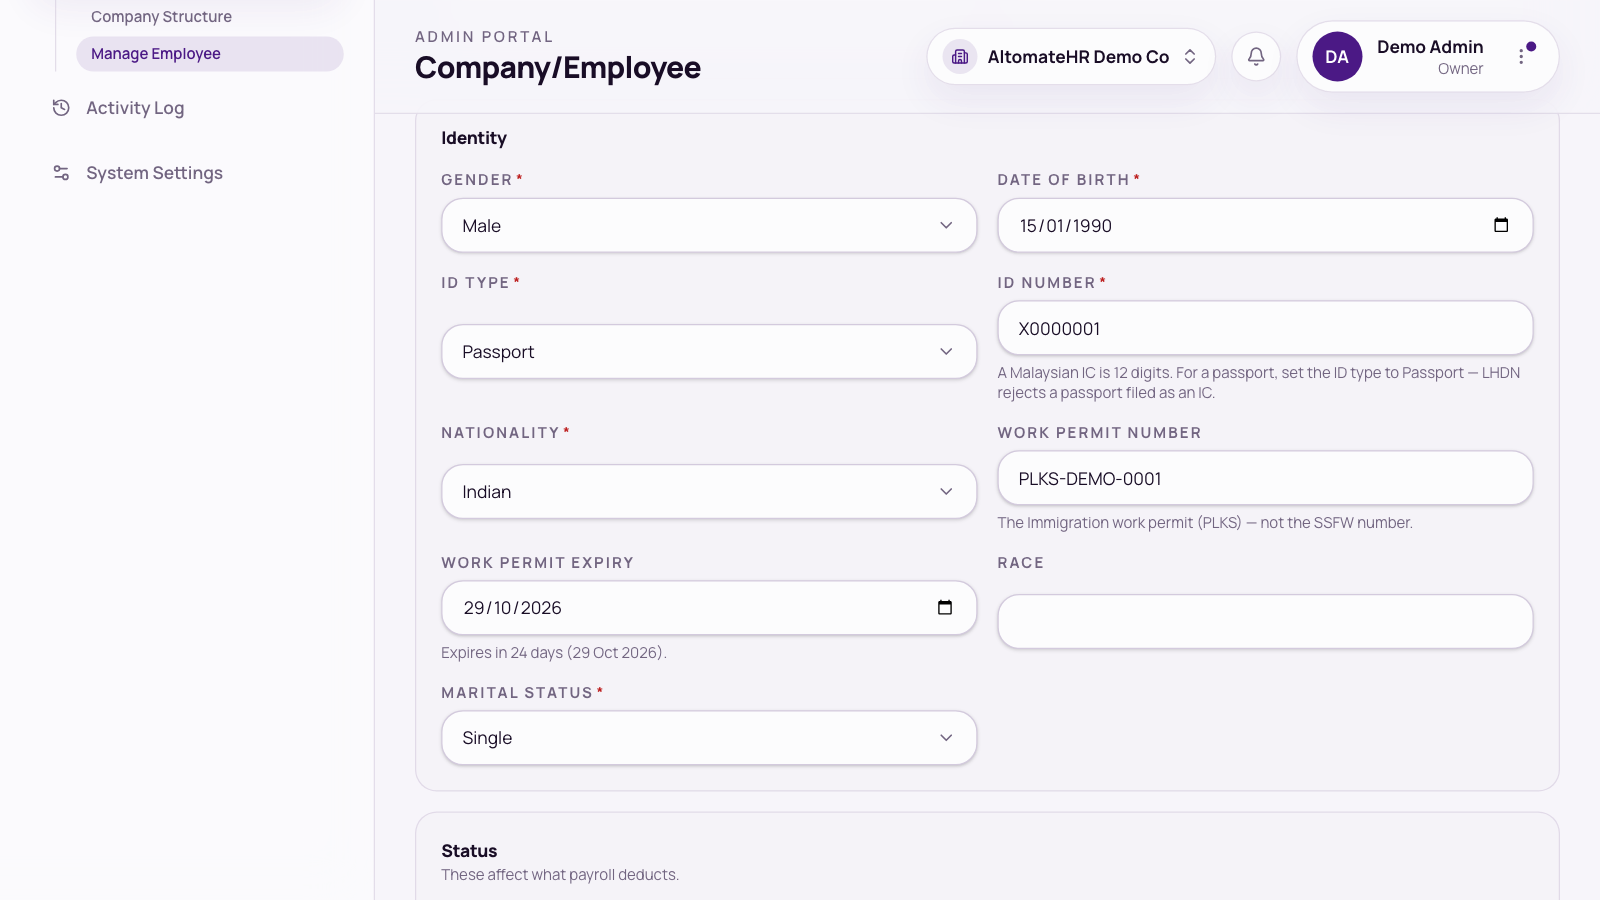
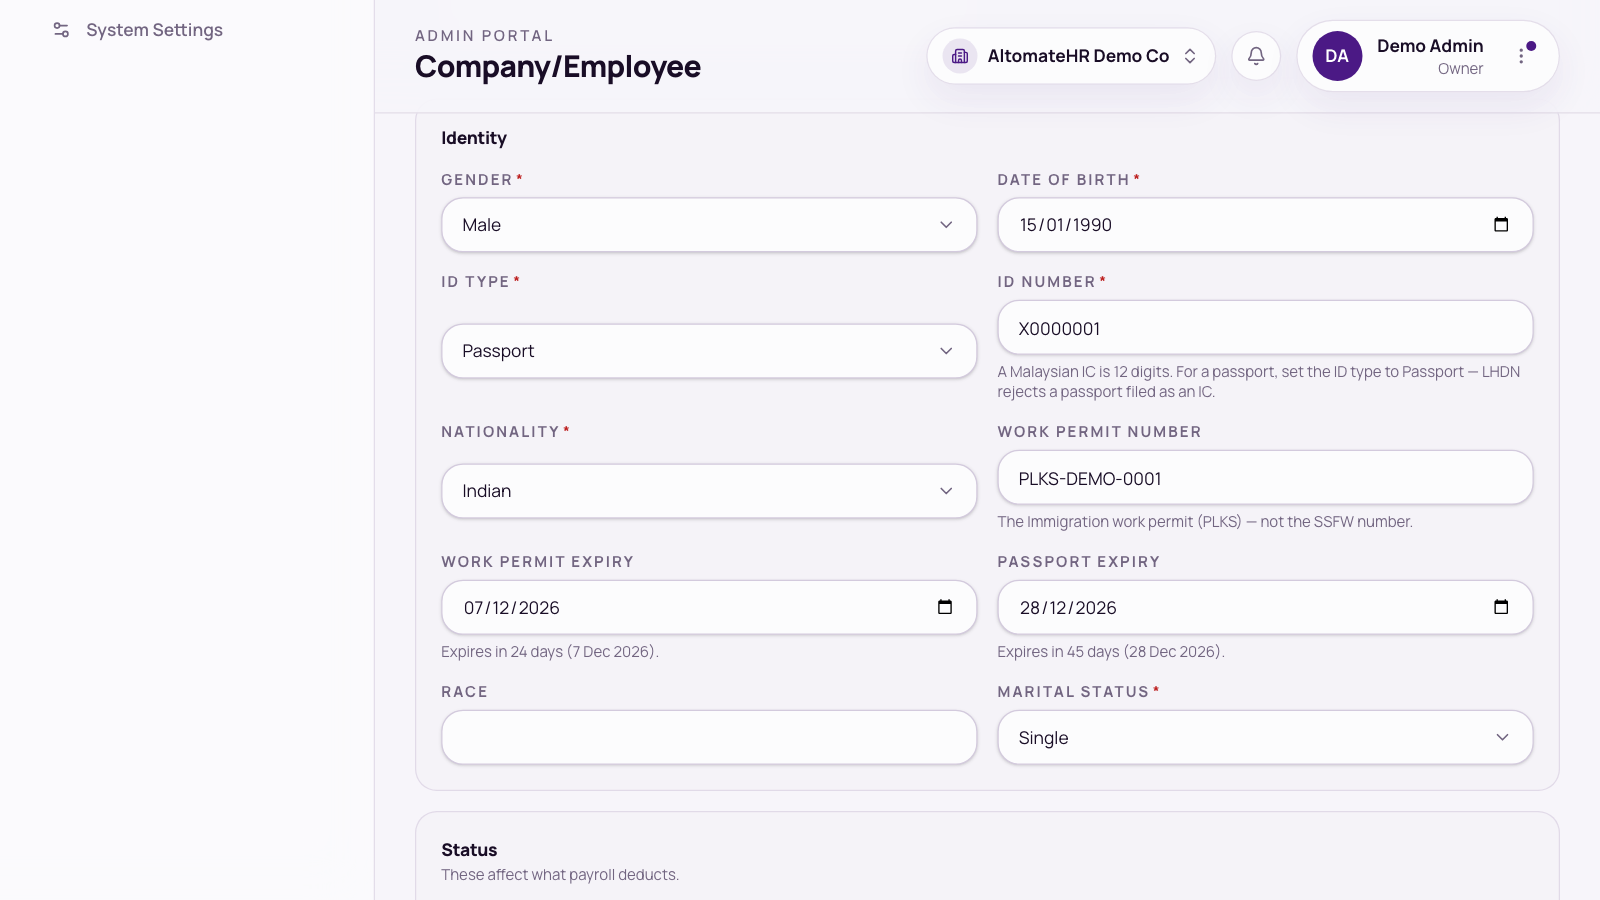
docs(guide): retake screenshots for expiry reminders
- New: System Settings → Notifications
- Executive Overview now shows the Documents expiring card
- Employee Identity shows the Passport expiry field
- Recipes: settings-notifications added; employee-work-permit searches for
  Arjun in the demo company; demo data gets passport expiry dates

diff --git a/user-guide/altomatehr-admin-guide.html b/user-guide/altomatehr-admin-guide.html
@@ -736,6 +736,15 @@
       </div>
       <p class="shot-cap shot-cap-main">What a limited admin sees in System Settings</p>
     </figure>
+    <figure class="shot" data-place="System Settings">
+      <div class="shot-grid" data-orient="screen">
+        <div class="shot-item">
+          <img src="shots/admin/settings-notifications.png" alt="System Settings → Notifications: the Work permit &amp; passport expiry card switched On, the When line set to remind 30 days before and on the expiry day, the Admins who get it list with the owner and two limited admins, and the Also email them switch for the staff member" loading="lazy">
+          <p class="shot-cap">Notifications</p>
+        </div>
+      </div>
+      <p class="shot-cap shot-cap-main">Who gets work permit and passport reminders, and when</p>
+    </figure>
 
     </div>
   </details>
@@ -942,7 +951,7 @@
     <figure class="shot" data-place="Employees">
       <div class="shot-grid" data-orient="screen">
         <div class="shot-item">
-          <img src="shots/admin/employee-work-permit.png" alt="The Identity section of a foreign worker's Personal tab, with Work permit number, Work permit expiry and the line under it saying the permit expires in 24 days" loading="lazy">
+          <img src="shots/admin/employee-work-permit.png" alt="The Identity section of a foreign worker's Personal tab, with Work permit number, then Work permit expiry and Passport expiry side by side, each with a line under it saying the permit expires in 24 days and the passport in 45 days" loading="lazy">
         </div>
       </div>
       <p class="shot-cap shot-cap-main">Work permit and passport dates, under Identity on the Personal tab</p>
